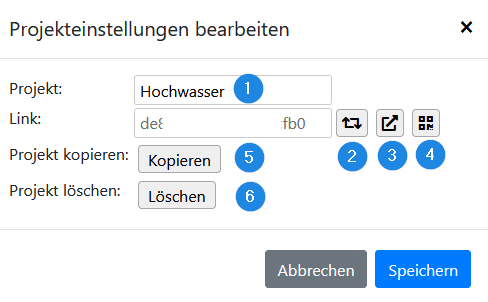
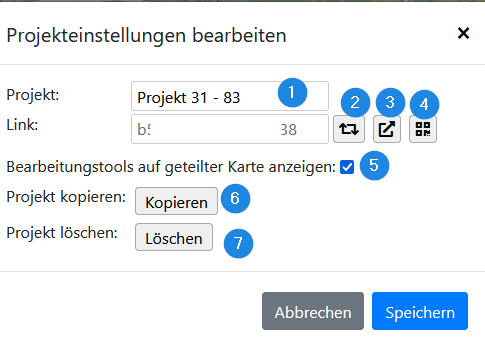
Update Project Settings dialog

diff --git a/docs/sidebar/save.md b/docs/sidebar/save.md
@@ -110,8 +110,9 @@ Um zu den Projekt-Einstellungen zu gelangen, muss auf den *Bearbeiten*-Button ge
 2. Eine Neugenerierung des *Share-Links*. **Achtung** dadurch werden alle bisher geteilten Links ungültig.
 3. Projekt in neuem Tab öffnen
 4. QR-Code anzeigen
-5. Projekt kopieren und neu abspeichern
-6. Projekt löschen
+5. Bearbeitungstools anzeigen
+6. Projekt kopieren und neu abspeichern
+7. Projekt löschen
 
 
 ## Import / Export
